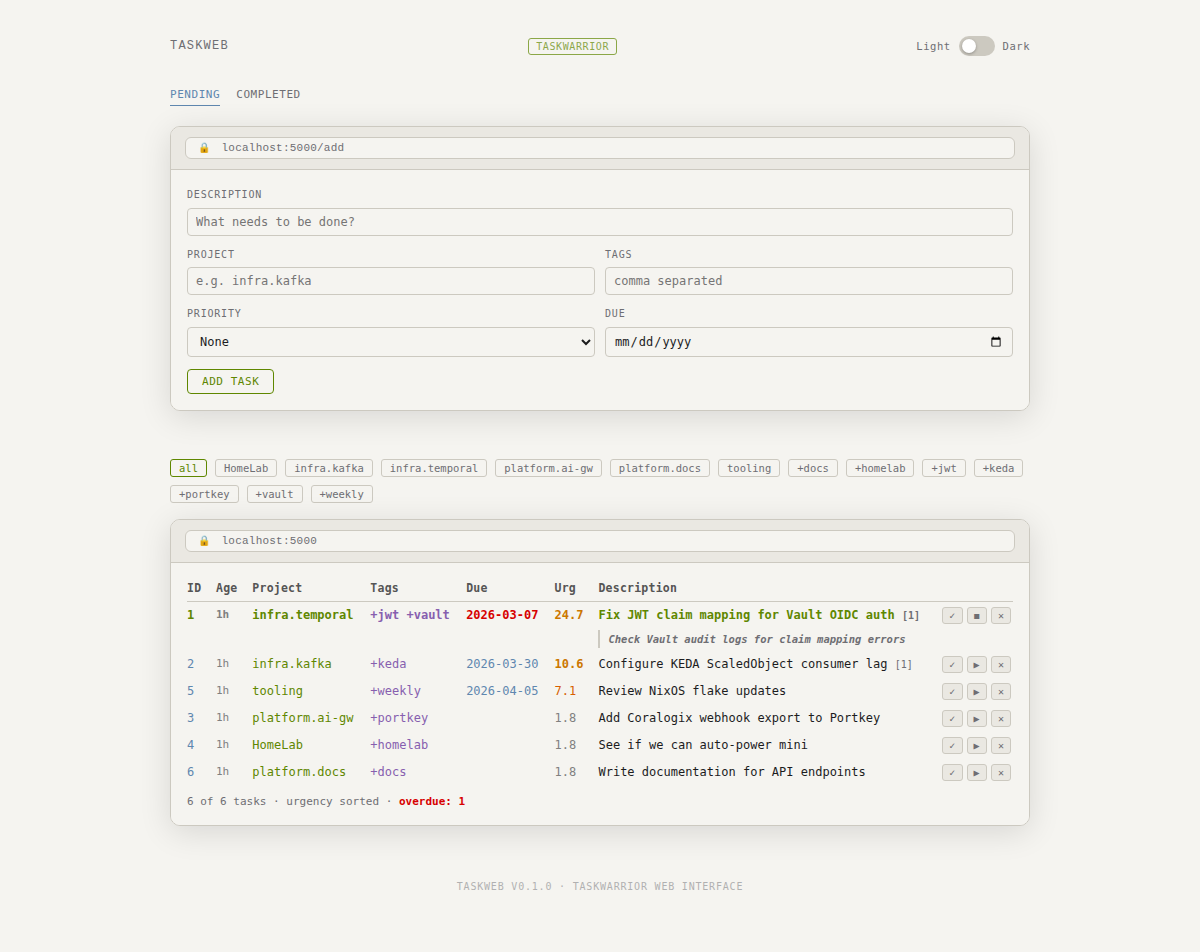
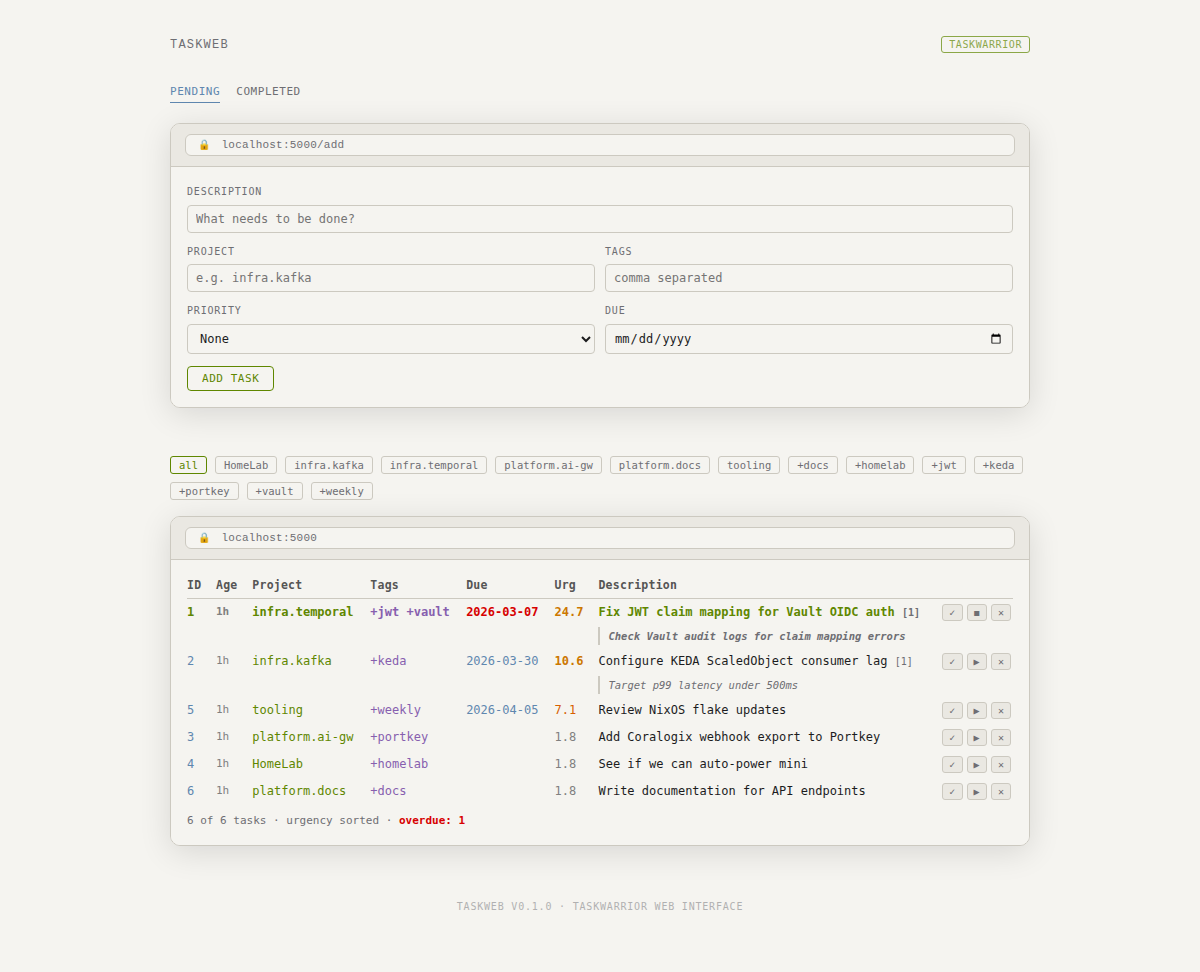
Remove theme toggle, use system preference only
Dark/light mode now driven entirely by CSS prefers-color-scheme
media query. No toggle UI, no JavaScript theme code, no localStorage.

https://claude.ai/code/session_012mGDfxuuAfjA45JJnFLQ5S

diff --git a/taskweb/static/style.css b/taskweb/static/style.css
@@ -11,21 +11,8 @@
   --flash-success: #5f8700; --flash-error: #d70000;
 }
 
-[data-theme="dark"] {
-  --bg:      #1c1c1e; --chrome: #272729; --border: #3a3a3c;
-  --text:    #e0e0e0; --dim:    #888;
-  --tw-header:#aaa;
-  --tw-id:   #5f87af; --tw-age:  #606060; --tw-proj: #5faf5f;
-  --tw-tag:  #875faf; --tw-due:  #d70000; --tw-due-ok:#5f87af;
-  --tw-urg:  #d75f00; --tw-urghi:#ff8700; --tw-done: #3a3a3c;
-  --tw-desc: #e0e0e0; --tw-act:  #5faf5f; --tw-block:#af8700;
-  --tw-recur:#008787; --tw-sep:  #3a3a3c; --tw-cnt:  #888;
-  --tw-next: #5f5faf;
-  --flash-success: #5faf5f; --flash-error: #ff5f57;
-}
-
 @media (prefers-color-scheme: dark) {
-  :root:not([data-theme="light"]) {
+  :root {
     --bg:#1c1c1e;--chrome:#272729;--border:#3a3a3c;
     --text:#e0e0e0;--dim:#888;--tw-header:#aaa;
     --tw-id:#5f87af;--tw-age:#606060;--tw-proj:#5faf5f;
@@ -82,32 +69,6 @@ h1 {
   opacity: .7;
 }
 
-.toggle-row {
-  display: flex;
-  align-items: center;
-  gap: 8px;
-  font-family: 'SF Mono', monospace;
-  font-size: 10.5px;
-  color: var(--dim);
-  letter-spacing: .05em;
-}
-
-.toggle { position: relative; width: 36px; height: 20px; cursor: pointer }
-.toggle input { opacity: 0; width: 0; height: 0 }
-.slider {
-  position: absolute; inset: 0;
-  background: var(--border); border-radius: 10px;
-  transition: background .2s;
-}
-.slider::before {
-  content: ''; position: absolute;
-  width: 14px; height: 14px; left: 3px; top: 3px;
-  border-radius: 50%; background: white;
-  transition: transform .2s;
-  box-shadow: 0 1px 3px rgba(0,0,0,.3);
-}
-input:checked + .slider { background: #5f87af }
-input:checked + .slider::before { transform: translateX(16px) }
 
 /* Navigation */
 nav {

diff --git a/taskweb/static/app.js b/taskweb/static/app.js
@@ -1,25 +1,3 @@
-// Theme toggle
-const toggle = document.getElementById('themeToggle');
-const root = document.documentElement;
-const mq = window.matchMedia('(prefers-color-scheme: dark)');
-
-function apply(dark) {
-  root.setAttribute('data-theme', dark ? 'dark' : 'light');
-  toggle.checked = dark;
-}
-
-// Always follow system preference on load (no localStorage persistence)
-// The toggle is a session-only override
-apply(mq.matches);
-
-// Auto-follow system preference changes
-mq.addEventListener('change', e => apply(e.matches));
-
-// Manual toggle overrides for current session
-toggle.addEventListener('change', () => {
-  root.setAttribute('data-theme', toggle.checked ? 'dark' : 'light');
-});
-
 // Auto-dismiss flash messages
 document.querySelectorAll('.flash').forEach(el => {
   setTimeout(() => {

diff --git a/taskweb/templates/base.html b/taskweb/templates/base.html
@@ -11,11 +11,6 @@
 <header>
   <h1>TaskWeb</h1>
   <div class="badge">taskwarrior</div>
-  <div class="toggle-row">
-    <span>Light</span>
-    <label class="toggle"><input type="checkbox" id="themeToggle"><span class="slider"></span></label>
-    <span>Dark</span>
-  </div>
 </header>
 
 <nav>
